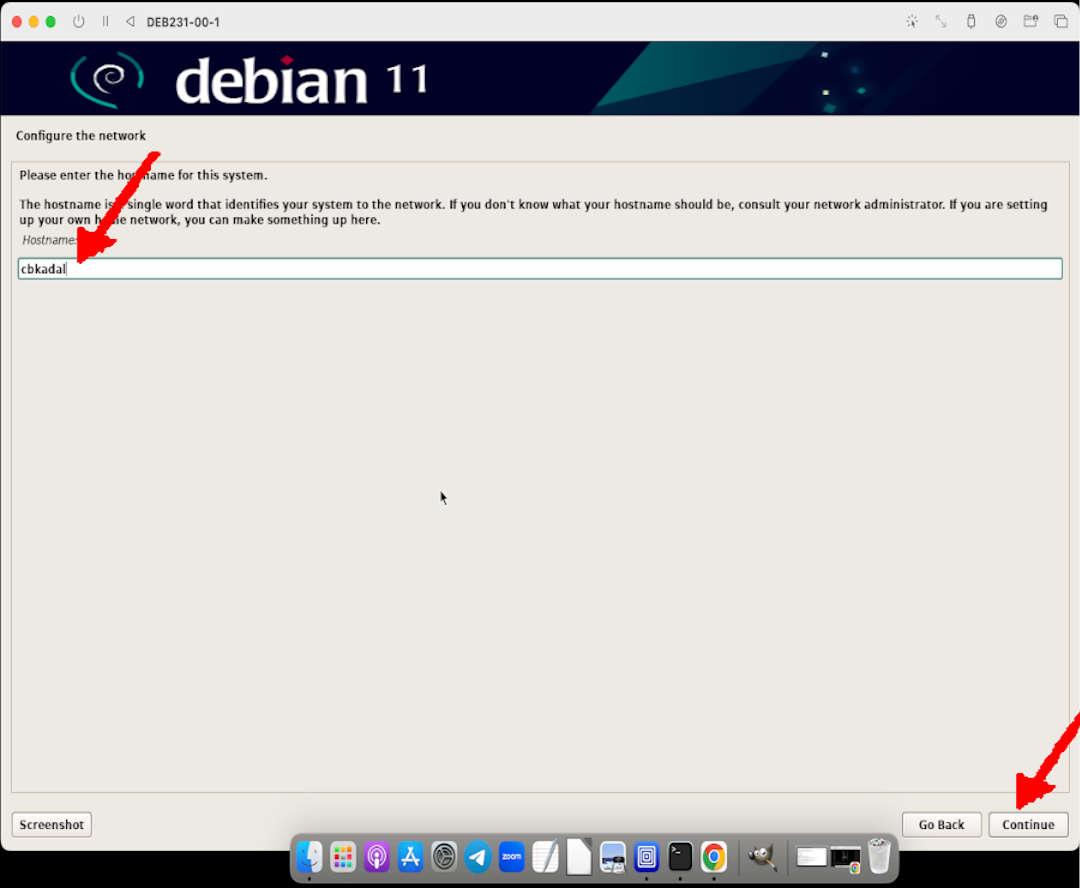
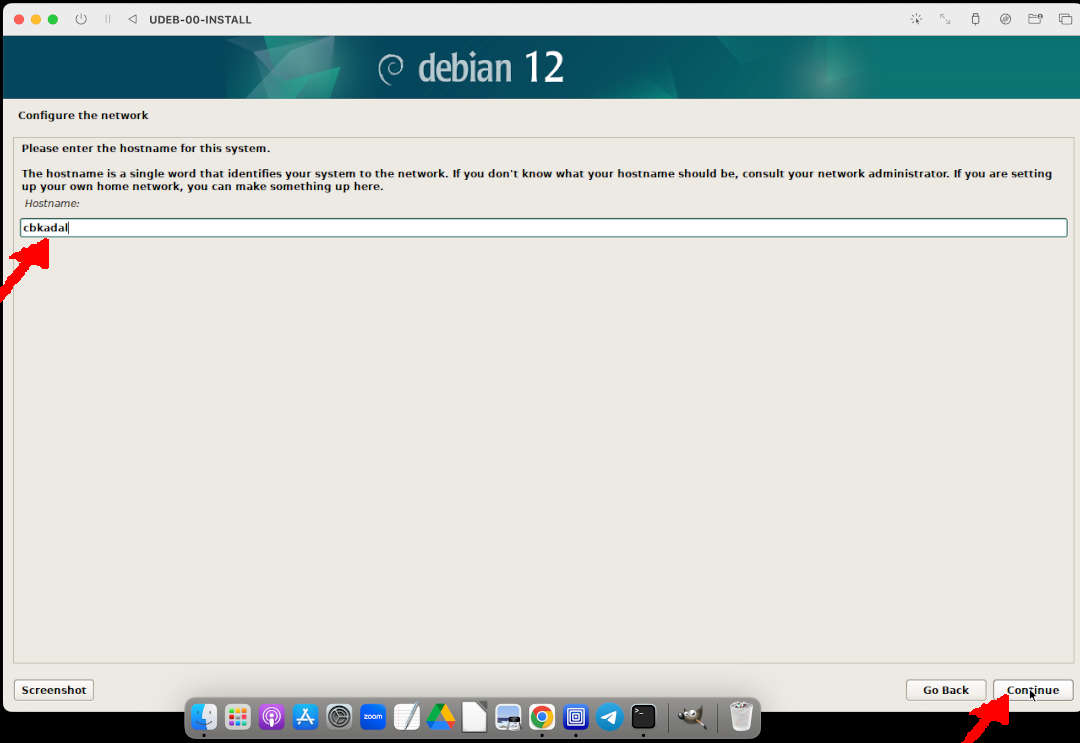
new file:   assets/images/debM1-022A.jpg debM1-027A.jpg debM1-027B.jpg modified:   009.pmd assets/images/

Changed region(s): [[0.0, 0.0, 1.0, 0.9596], [0.1528, 0.8048, 1.0, 1.0]]

diff --git a/009.md b/009.md
@@ -26,8 +26,20 @@ tagline: M1, Apple, Mac, UTM, Install Debian
   * [Network: Port Forward](#idx017)
   * [Sound](#idx018A)
 <br id="idx018B">
-* [BACKUP](#idx019)
-* [Installing Debian](#idx027)
+* [Maintenance](#idx019)
+  * [BACKUP](#idx019)
+  * [CLONE](#idx023)
+  * [REMOVE SHORTCUT TO UTM](#idx024)
+  * [EDIT/RENAME](#idx025)
+* [Installing Debian](#idx027A)
+  * [Re-Attach ISO Image](#idx027A)
+  * [START Install](#idx027)
+  * [Debian Installer Menu](#idx029)
+  * [Select A Language](#idx030)
+  * [Select Your Location](#idx032)
+  * [Configure Locales](#idx035)
+  * [Configure Keyboard](#idx036)
+  * [Configure Network (e.g. cbkadal)](#idx038)
 * [Boot dan Shutdown Test](#idx059)
 
 [&#x213C;](#)<br id="idx000-1">
@@ -243,7 +255,8 @@ In this example, the UTM version is 4.5.3 (5 Aug 2023)
 
 [&#x213C;](#)<br id="idx019">
 
-## BACKUP
+## Maintenance
+### BACKUP
 
 Backup to another folder (e.g. UTM/)
 
@@ -257,68 +270,153 @@ Backup to another folder (e.g. UTM/)
 
 [&#x213C;](#)<br id="idx021">
 
+* CONFIRM
+
 <img src="{{ site.baseurl }}/assets/images/debM1-021.jpg" style="width:960px;"><br><br>
 
 [&#x213C;](#)<br id="idx022">
 
+* SAVE to folder UTM
+
 <img src="{{ site.baseurl }}/assets/images/debM1-022.jpg" style="width:960px;"><br><br>
+
+[&#x213C;](#)<br id="idx022A">
+
+* New Backup Copy "UDEB-00-BLANK.utm" in folder UTM.
+
+<img src="{{ site.baseurl }}/assets/images/debM1-022A.jpg" style="width:960px;"><br><br>
 
 [&#x213C;](#)<br id="idx023">
 
+## CLONE
+
+How to clone a Virtual Machine (Guest)
+
 <img src="{{ site.baseurl }}/assets/images/debM1-023.jpg" style="width:960px;"><br><br>
+
+[&#x213C;](#)<br id="idx023A">
+
+* Confirm Duplication: YES
+
+<img src="{{ site.baseurl }}/assets/images/debM1-023A.jpg" style="width:960px;"><br><br>
 
 [&#x213C;](#)<br id="idx024">
 
+## REMOVE SHORTCUT TO UTM
+
+After cloning, you might remove the shortcut.
+
 <img src="{{ site.baseurl }}/assets/images/debM1-024.jpg" style="width:960px;"><br><br>
 
+[&#x213C;](#)<br id="idx024A">
+
+* Confirm: REMOVE shortcut
+
+<img src="{{ site.baseurl }}/assets/images/debM1-024A.jpg" style="width:960px;"><br><br>
+
 [&#x213C;](#)<br id="idx025">
+
+## EDIT/RENAME 
+
+* Option EDIT: Rename "UDEB-00-BLANK" to "UDEB-00-INSTALL"
 
 <img src="{{ site.baseurl }}/assets/images/debM1-025.jpg" style="width:960px;"><br><br>
 
 [&#x213C;](#)<br id="idx026">
 
+* Information
+  * Name: UDEB-00-INSTALL
+  * Icon: Debian Icon + Operating System
+  * SAVE
+
 <img src="{{ site.baseurl }}/assets/images/debM1-026.jpg" style="width:960px;"><br><br>
 
-[&#x213C;](#)<br id="idx027">
+[&#x213C;](#)<br id="idx027A">
 
 ## Installing Debian
 
+### Re-Attach ISO Image]
+
+The ISO Image has to be re-attached after cloning.
+* Browse ISO Image
+
+<img src="{{ site.baseurl }}/assets/images/debM1-027A.jpg" style="width:960px;"><br><br>
+
+[&#x213C;](#)<br id="idx027B">
+
+* The ISO image was "debian-12.1.0-arm64-netinst.iso" — but this is subject to change.
+* This example will use the (previous version,) "debian-12.1.0-arm64-netinst.iso"
+
+<img src="{{ site.baseurl }}/assets/images/debM1-027B.jpg" style="width:960px;"><br><br>
+
+[&#x213C;](#)<br id="idx027">
+
+### START Install
+
+* CLICK to START
 
 <img src="{{ site.baseurl }}/assets/images/debM1-027.jpg" style="width:960px;"><br><br>
 
 [&#x213C;](#)<br id="idx028">
 
+Start BOOT Option
+
 <img src="{{ site.baseurl }}/assets/images/debM1-028.jpg" style="width:960px;"><br><br>
 
 [&#x213C;](#)<br id="idx029">
+
+### Debian Installer Menu
+
+* Graphical Install
 
 <img src="{{ site.baseurl }}/assets/images/debM1-029.jpg" style="width:960px;"><br><br>
 
 [&#x213C;](#)<br id="idx030">
 
+### Select A Language
+
+* English
+  * (or else) 
+
 <img src="{{ site.baseurl }}/assets/images/debM1-030.jpg" style="width:960px;"><br><br>
 
-[&#x213C;](#)<br id="idx031">
-
-<img src="{{ site.baseurl }}/assets/images/debM1-031.jpg" style="width:960px;"><br><br>
-
 [&#x213C;](#)<br id="idx032">
+
+### Select Your Location
+
+* Other 
+  * (or else) 
 
 <img src="{{ site.baseurl }}/assets/images/debM1-032.jpg" style="width:960px;"><br><br>
 
 [&#x213C;](#)<br id="idx033">
 
+* Asia
+  * (or else)
+
 <img src="{{ site.baseurl }}/assets/images/debM1-033.jpg" style="width:960px;"><br><br>
 
 [&#x213C;](#)<br id="idx034">
+
+* Indonesia 
+  * (or else)
 
 <img src="{{ site.baseurl }}/assets/images/debM1-034.jpg" style="width:960px;"><br><br>
 
 [&#x213C;](#)<br id="idx035">
 
+### Configure Locales
+
+* Australia: en_AU.UTF-8
+  * Australia is an English-speaking country with a 24-hour clock system.
+
 <img src="{{ site.baseurl }}/assets/images/debM1-035.jpg" style="width:960px;"><br><br>
 
 [&#x213C;](#)<br id="idx036">
+
+### Configure Keyboard
+
+* American English
 
 <img src="{{ site.baseurl }}/assets/images/debM1-036.jpg" style="width:960px;"><br><br>
 
@@ -328,9 +426,15 @@ Backup to another folder (e.g. UTM/)
 
 [&#x213C;](#)<br id="idx038">
 
+### Configure Network (e.g. cbkadal)
+* Hostname: cbkadal
+  * Remember: <span style="color:red; font-weight:bold; font-size:larger;">you are not cbkadal!</span>
+
 <img src="{{ site.baseurl }}/assets/images/debM1-038.jpg" style="width:960px;"><br><br>
 
 [&#x213C;](#)<br id="idx039">
+
+* Domain Name: BLANK
 
 <img src="{{ site.baseurl }}/assets/images/debM1-039.jpg" style="width:960px;"><br><br>
 

diff --git a/004.md b/004.md
@@ -84,7 +84,7 @@ all: $(MD_FILES) .siteHack
 ### _config.yml
 
 ```
-version:          "0126--27-Aug-2023"
+version:          "0126a--27-Aug-2023"
 copyright:        "2021-2023"
 title:            "This Is How Me Do It!"
 author:           "C. BinKadal"
